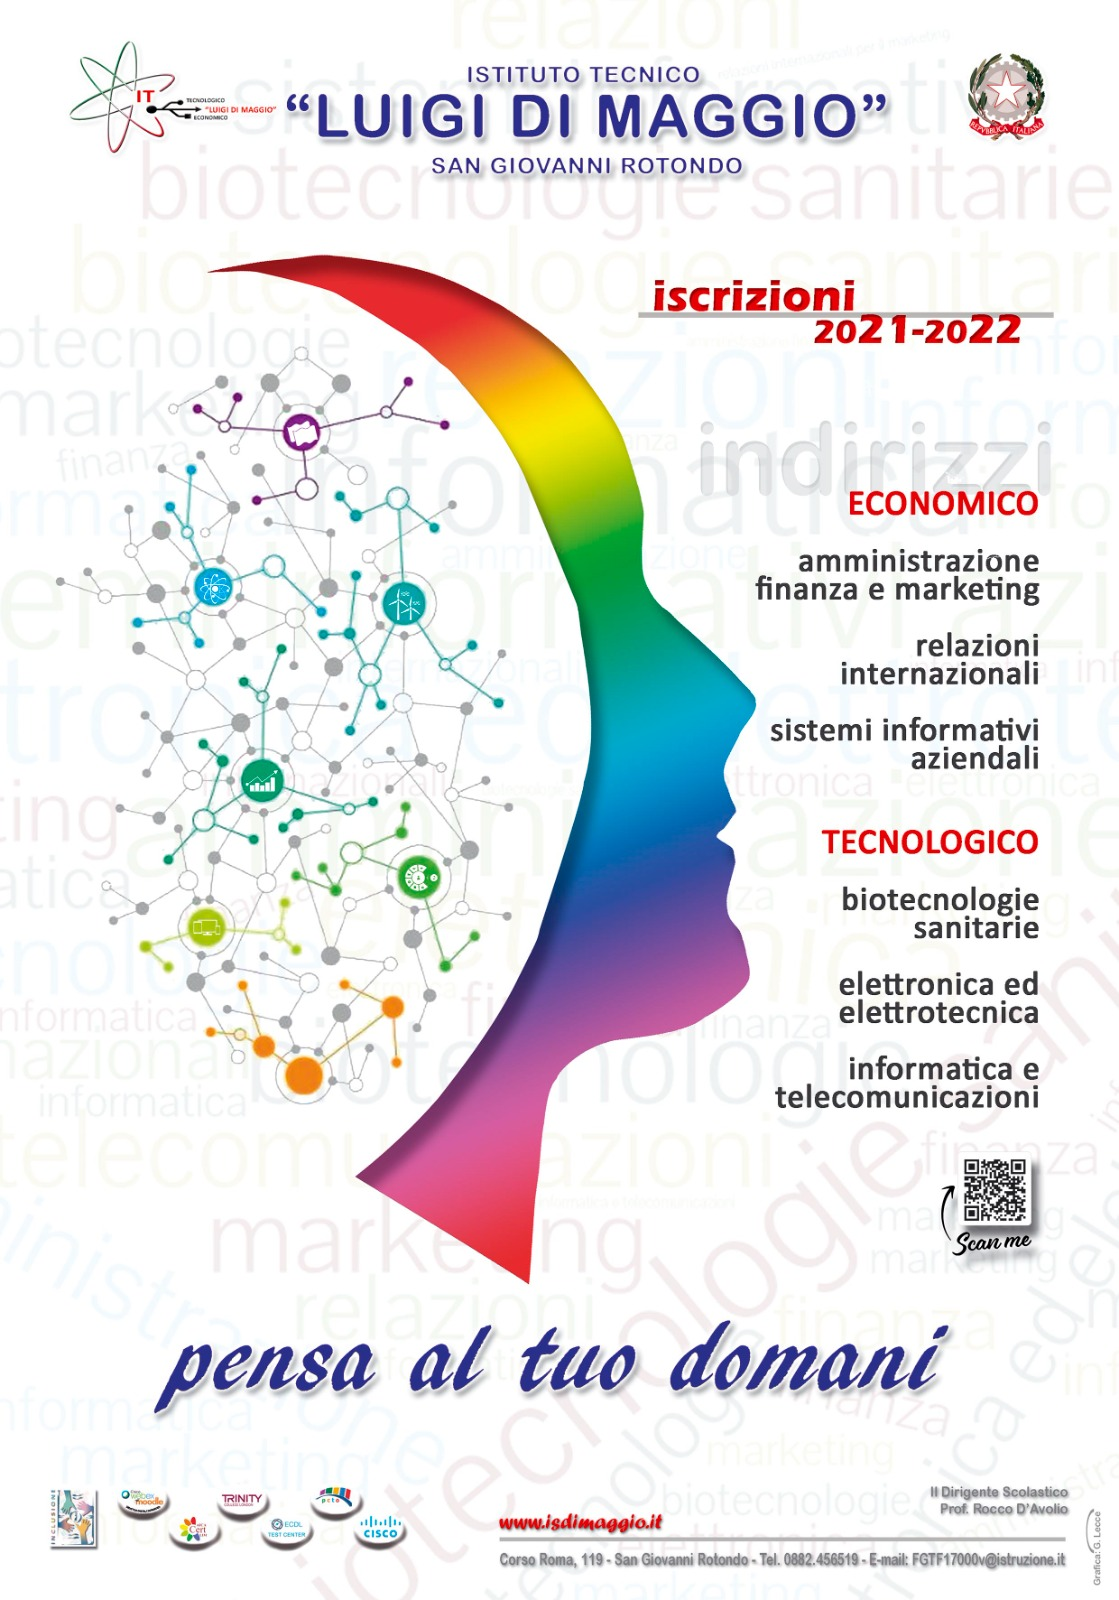
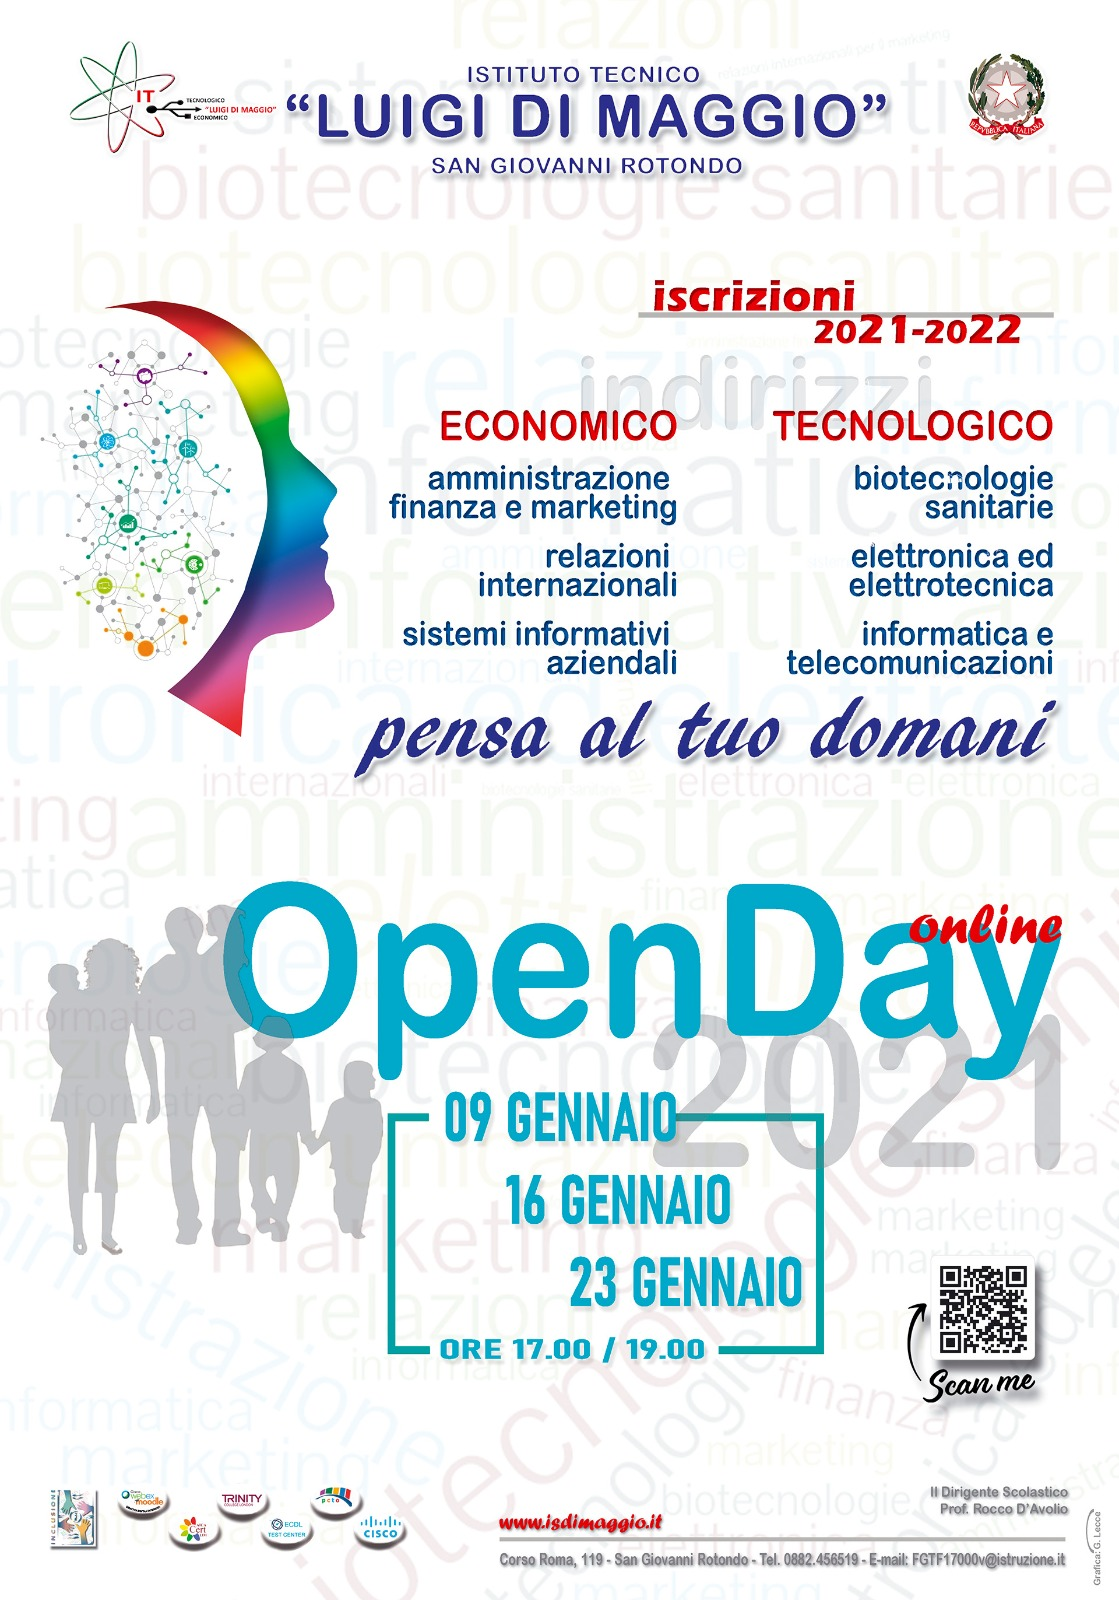
Nuova locandina, descrizione ite e depliant

diff --git a/index.html b/index.html
@@ -22,19 +22,21 @@ Descrizione:  Pagina principale con selezione indirizzi
 <body>
     <div class="overlay-vid" id="overlayMain">
         <div class="wrapper">
-            <video id="presentazioneinformatica" class="video-js vjs-default-skin vjs-16-9" controls width="640" height="360"
-          poster="../assets/vid/orientamento/POSTER.png" data-setup='{"fluid": true}'>
-          <source src="../assets/vid/orientamento/DELIVERY.mp4" type="video/mp4" />
-          <source src="../assets/vid/orientamento/DELIVERY.webm" type="video/webm" />
-          <p class="vjs-no-js">
-            To view this video please enable JavaScript, and consider upgrading to a
-            web browser that
-            <a href="https://videojs.com/html5-video-support/" target="_blank">supports HTML5 video</a>
-          </p>
-        </video>
-            <div class="close" onclick="overlayOff()"><p>Chiudi</p></div>
+            <video id="presentazioneinformatica" class="video-js vjs-default-skin vjs-16-9" controls width="640"
+                height="360" poster="../assets/vid/orientamento/POSTER.png" data-setup='{"fluid": true}'>
+                <source src="../assets/vid/orientamento/DELIVERY.mp4" type="video/mp4" />
+                <source src="../assets/vid/orientamento/DELIVERY.webm" type="video/webm" />
+                <p class="vjs-no-js">
+                    To view this video please enable JavaScript, and consider upgrading to a
+                    web browser that
+                    <a href="https://videojs.com/html5-video-support/" target="_blank">supports HTML5 video</a>
+                </p>
+            </video>
+            <div class="close" onclick="overlayOff()">
+                <p>Chiudi</p>
+            </div>
         </div>
-      </div>
+    </div>
 
     <nav class="navbar navbar-expand-md navbar-dark fixed-top bg-dark">
         <a class="navbar-brand" href="#">Open Day (Sito Incompleto) [PUBLIC BETA]</a>
@@ -77,13 +79,16 @@ Descrizione:  Pagina principale con selezione indirizzi
             <div class="container">
                 <div class="row justify-content-md-center">
                     <div class="col-md-auto">
-                        <p><a class="btn btn-lg btn-outline-light" href="assets/img/locandina.jpeg" data-lightbox="locandina-1" data-title="Locandina">Locandina</a></p>
+                        <p><a class="btn btn-lg btn-outline-light" href="assets/img/locandina.jpeg"
+                                data-lightbox="locandina-1" data-title="Locandina">Locandina</a></p>
                     </div>
                     <div class="col-md-auto">
-                        <p><a class="btn btn-lg btn-outline-light" href="#" onclick="overlayOn()">Video di Presentazione</a></p>
+                        <p><a class="btn btn-lg btn-outline-light" href="#" onclick="overlayOn()">Video di
+                                Presentazione</a></p>
                     </div>
                     <div class="col-md-auto">
-                        <p><a class="btn btn-lg btn-outline-light" href="assets/depliant.pdf" target="_blank">Depliant</a></p>
+                        <p><a class="btn btn-lg btn-outline-light" href="assets/depliant.pdf"
+                                target="_blank">Depliant</a></p>
                     </div>
                 </div>
             </div>
@@ -149,18 +154,20 @@ Descrizione:  Pagina principale con selezione indirizzi
             <div class="row featurette">
                 <div class="col-md-9 order-md-2">
                     <h2 class="featurette-titolo">Economico <span class="text-muted">Aziendale</span></h2>
-                    <p class="lead">Questo settore si suddivide in 3 indirizzi: amministrazione finanza e marketing,
-                        sistemi informativi aziendali, relazioni internazionali per il marketing. Il Diplomato in
-                        Amministrazione, Finanza e Marketing ha competenze nel campo dei macrofenomeni economici
-                        nazionali ed internazionali, dei sistemi e processi aziendali (organizzazione, pianificazione,
-                        programmazione, amministrazione, finanza e controllo), degli strumenti di marketing, dei
-                        prodotti assicurativo-finanziari e dell’economia sociale. Sistemi informativi aziendali invece
-                        si caratterizza per il riferimento all’ambito della gestione del sistema informativo e alla
+                    <p class="lead">In questo settore il nostro Istituto ha attivo l’indirizzo Amministrazione Finanza e
+                        Marketing con 3 sue articolazioni: amministrazione finanza e marketing, sistemi informativi
+                        aziendali, relazioni internazionali per il marketing. Il Diplomato in “Amministrazione, finanza
+                        e marketing” ha competenze nel campo dei macrofenomeni economici nazionali ed internazionali,
+                        dei sistemi e processi aziendali (organizzazione, pianificazione, programmazione,
+                        amministrazione, finanza e controllo), degli strumenti di marketing, dei prodotti
+                        assicurativo-finanziari e dell’economia sociale. “Sistemi informativi aziendali” invece si
+                        caratterizza per il riferimento all’ambito della gestione del sistema informativo e alla
                         valutazione, scelta e adattamento di software applicativi necessari alla corretta gestione
                         dell’azienda. Infine, “Relazioni internazionali per il marketing” si caratterizza per il
                         riferimento all’ambito della comunicazione aziendale sfruttando tre lingue straniere e
                         appropriati strumenti tecnologici, oltre che alla collaborazione nella gestione dei rapporti
-                        aziendali nazionali e internazionali.</p>
+                        aziendali nazionali e internazionali.
+                    </p>
                     <a class="btn btn-success" href="amaduzzi/">Scopri di più &raquo;</a>
                 </div>
                 <div class="col-md-3 hidemob order-md-1">
@@ -183,4 +190,5 @@ Descrizione:  Pagina principale con selezione indirizzi
     <script src="assets/js/video.min.js"></script>
     <script src="assets/js/overlay.js"></script>
     <link href="assets/css/lightbox.min.css" rel="stylesheet" />
+
 </html>
